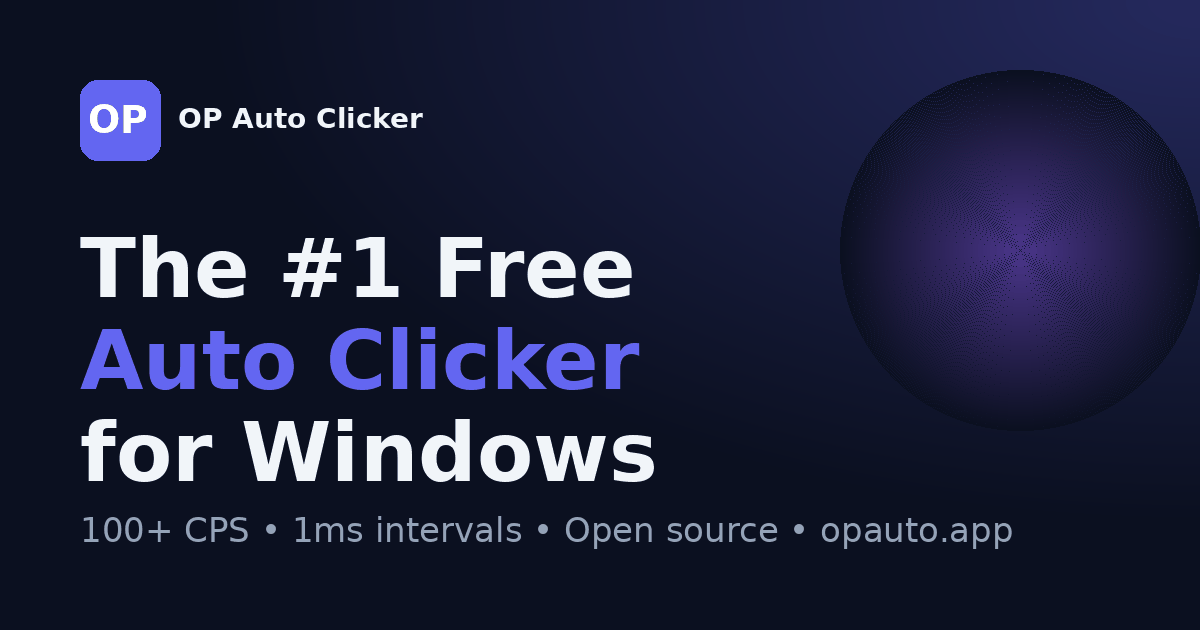
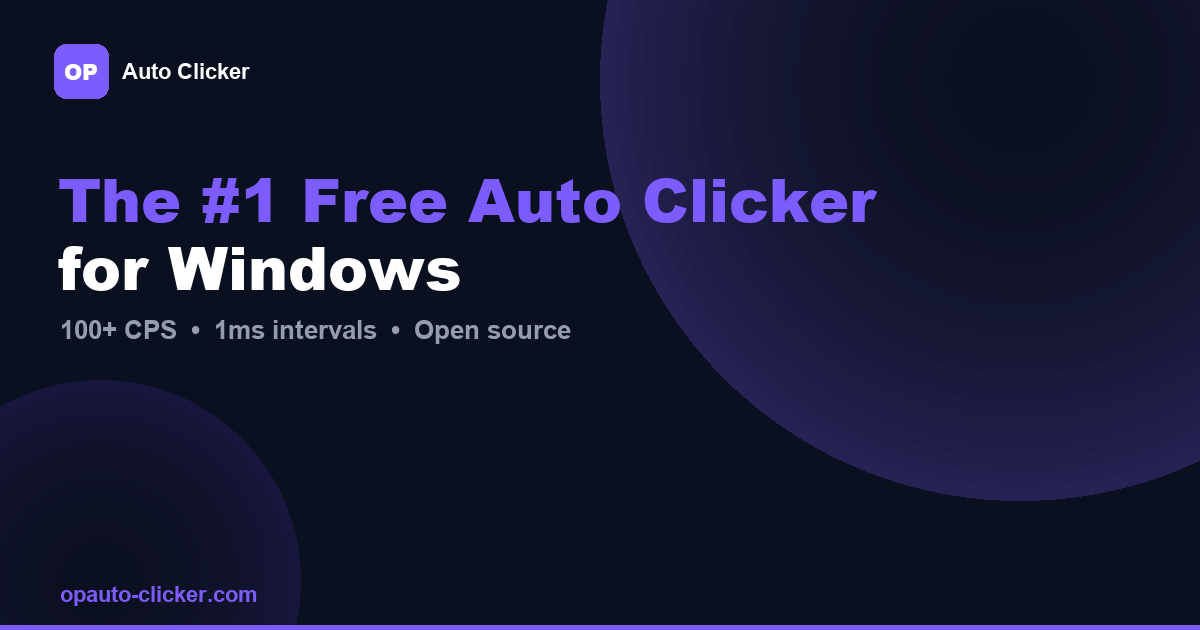
feat(images): per-page OG images + fix stale opauto.app branding
- Generated unique 1200x630 OG social preview images for 5 use-case pages:
  og-minecraft.png, og-roblox.png, og-windows11.png, og-fastest.png, og-safe.png
- Replaced generic og-image.png (was stale: showed opauto.app not opauto-clicker.com)
- Wired per-page og:image, og:image:alt, twitter:image meta tags
- All images: dark navy brand style, purple accents, correct domain

diff --git a/minecraft-auto-clicker.html b/minecraft-auto-clicker.html
@@ -12,13 +12,14 @@
 <meta property="og:title" content="OP Auto Clicker for Minecraft – Free Download (Java &amp; Bedrock)">
 <meta property="og:description" content="OP Auto Clicker is the best free auto clicker for Minecraft. Auto-mining, fishing, breeding, PvP. Java &amp; Bedrock. Up to 100 CPS.">
 <meta property="og:url" content="https://opauto-clicker.com/minecraft-auto-clicker">
-<meta property="og:image" content="https://opauto-clicker.com/og-image.png">
+<meta property="og:image" content="https://opauto-clicker.com/og-minecraft.png">
+<meta property="og:image:alt" content="OP Auto Clicker for Minecraft — auto-mine, auto-farm, auto-craft free">
 <meta property="og:image:width" content="1200">
 <meta property="og:image:height" content="630">
 <meta name="twitter:card" content="summary_large_image">
 <meta name="twitter:title" content="OP Auto Clicker for Minecraft – Free Download">
 <meta name="twitter:description" content="OP Auto Clicker for Minecraft. Auto-mining, fishing, breeding. Up to 100 CPS. Java &amp; Bedrock.">
-<meta name="twitter:image" content="https://opauto-clicker.com/og-image.png">
+<meta name="twitter:image" content="https://opauto-clicker.com/og-minecraft.png">
 <meta name="theme-color" content="#0B1020">
 <link rel="icon" type="image/png" sizes="16x16" href="/favicon-16.png">
 <link rel="icon" type="image/png" sizes="32x32" href="/favicon-32.png">

diff --git a/windows-11-auto-clicker.html b/windows-11-auto-clicker.html
@@ -12,13 +12,14 @@
 <meta property="og:title" content="OP Auto Clicker for Windows 11 – Free Download (32 &amp; 64-bit)">
 <meta property="og:description" content="OP Auto Clicker for Windows 11. 100+ CPS, hotkeys, no installation. Verified on builds 23H2 and 24H2.">
 <meta property="og:url" content="https://opauto-clicker.com/windows-11-auto-clicker">
-<meta property="og:image" content="https://opauto-clicker.com/og-image.png">
+<meta property="og:image" content="https://opauto-clicker.com/og-windows11.png">
+<meta property="og:image:alt" content="OP Auto Clicker for Windows 11 — verified on 23H2 and 24H2 builds">
 <meta property="og:image:width" content="1200">
 <meta property="og:image:height" content="630">
 <meta name="twitter:card" content="summary_large_image">
 <meta name="twitter:title" content="OP Auto Clicker for Windows 11 – Free Download">
 <meta name="twitter:description" content="OP Auto Clicker for Windows 11. Virus-free, 100+ CPS, no installation.">
-<meta name="twitter:image" content="https://opauto-clicker.com/og-image.png">
+<meta name="twitter:image" content="https://opauto-clicker.com/og-windows11.png">
 <meta name="theme-color" content="#0B1020">
 <link rel="icon" type="image/png" sizes="16x16" href="/favicon-16.png">
 <link rel="icon" type="image/png" sizes="32x32" href="/favicon-32.png">

diff --git a/roblox-auto-clicker.html b/roblox-auto-clicker.html
@@ -12,13 +12,14 @@
 <meta property="og:title" content="OP Auto Clicker for Roblox – Free Download for Clicker Simulators">
 <meta property="og:description" content="OP Auto Clicker for Roblox — clicker sims, idle games, pet hatching. 100 CPS, F6 hotkey, fixed-position.">
 <meta property="og:url" content="https://opauto-clicker.com/roblox-auto-clicker">
-<meta property="og:image" content="https://opauto-clicker.com/og-image.png">
+<meta property="og:image" content="https://opauto-clicker.com/og-roblox.png">
+<meta property="og:image:alt" content="OP Auto Clicker for Roblox — clicker simulators and AFK farming free">
 <meta property="og:image:width" content="1200">
 <meta property="og:image:height" content="630">
 <meta name="twitter:card" content="summary_large_image">
 <meta name="twitter:title" content="OP Auto Clicker for Roblox – Free Download">
 <meta name="twitter:description" content="OP Auto Clicker for Roblox. 100 CPS, F6 hotkey, fixed-position clicking.">
-<meta name="twitter:image" content="https://opauto-clicker.com/og-image.png">
+<meta name="twitter:image" content="https://opauto-clicker.com/og-roblox.png">
 <meta name="theme-color" content="#0B1020">
 <link rel="icon" type="image/png" sizes="16x16" href="/favicon-16.png">
 <link rel="icon" type="image/png" sizes="32x32" href="/favicon-32.png">

diff --git a/fastest-auto-clicker.html b/fastest-auto-clicker.html
@@ -12,13 +12,14 @@
 <meta property="og:title" content="OP Auto Clicker – Fastest Auto Clicker for Windows (100+ CPS)">
 <meta property="og:description" content="OP Auto Clicker is the fastest free auto clicker for Windows. 100+ CPS, 1ms intervals, no lag.">
 <meta property="og:url" content="https://opauto-clicker.com/fastest-auto-clicker">
-<meta property="og:image" content="https://opauto-clicker.com/og-image.png">
+<meta property="og:image" content="https://opauto-clicker.com/og-fastest.png">
+<meta property="og:image:alt" content="Fastest Auto Clicker for Windows — 100+ CPS with 1ms intervals">
 <meta property="og:image:width" content="1200">
 <meta property="og:image:height" content="630">
 <meta name="twitter:card" content="summary_large_image">
 <meta name="twitter:title" content="OP Auto Clicker – Fastest Free Auto Clicker (100+ CPS)">
 <meta name="twitter:description" content="OP Auto Clicker — fastest free auto clicker. 100+ CPS, 1ms intervals.">
-<meta name="twitter:image" content="https://opauto-clicker.com/og-image.png">
+<meta name="twitter:image" content="https://opauto-clicker.com/og-fastest.png">
 <meta name="theme-color" content="#0B1020">
 <link rel="icon" type="image/png" sizes="16x16" href="/favicon-16.png">
 <link rel="icon" type="image/png" sizes="32x32" href="/favicon-32.png">

diff --git a/safe-auto-clicker.html b/safe-auto-clicker.html
@@ -12,13 +12,14 @@
 <meta property="og:title" content="Is OP Auto Clicker Safe? Open Source, Verified Virus-Free">
 <meta property="og:description" content="Is OP Auto Clicker safe? Open source, code-signed, virus-free on VirusTotal.">
 <meta property="og:url" content="https://opauto-clicker.com/safe-auto-clicker">
-<meta property="og:image" content="https://opauto-clicker.com/og-image.png">
+<meta property="og:image" content="https://opauto-clicker.com/og-safe.png">
+<meta property="og:image:alt" content="100% Safe Auto Clicker — open source, code-signed, virus-free">
 <meta property="og:image:width" content="1200">
 <meta property="og:image:height" content="630">
 <meta name="twitter:card" content="summary_large_image">
 <meta name="twitter:title" content="Is OP Auto Clicker Safe? Yes — Verified Virus-Free">
 <meta name="twitter:description" content="OP Auto Clicker is open source, code-signed, virus-free on VirusTotal.">
-<meta name="twitter:image" content="https://opauto-clicker.com/og-image.png">
+<meta name="twitter:image" content="https://opauto-clicker.com/og-safe.png">
 <meta name="theme-color" content="#0B1020">
 <link rel="icon" type="image/png" sizes="16x16" href="/favicon-16.png">
 <link rel="icon" type="image/png" sizes="32x32" href="/favicon-32.png">
